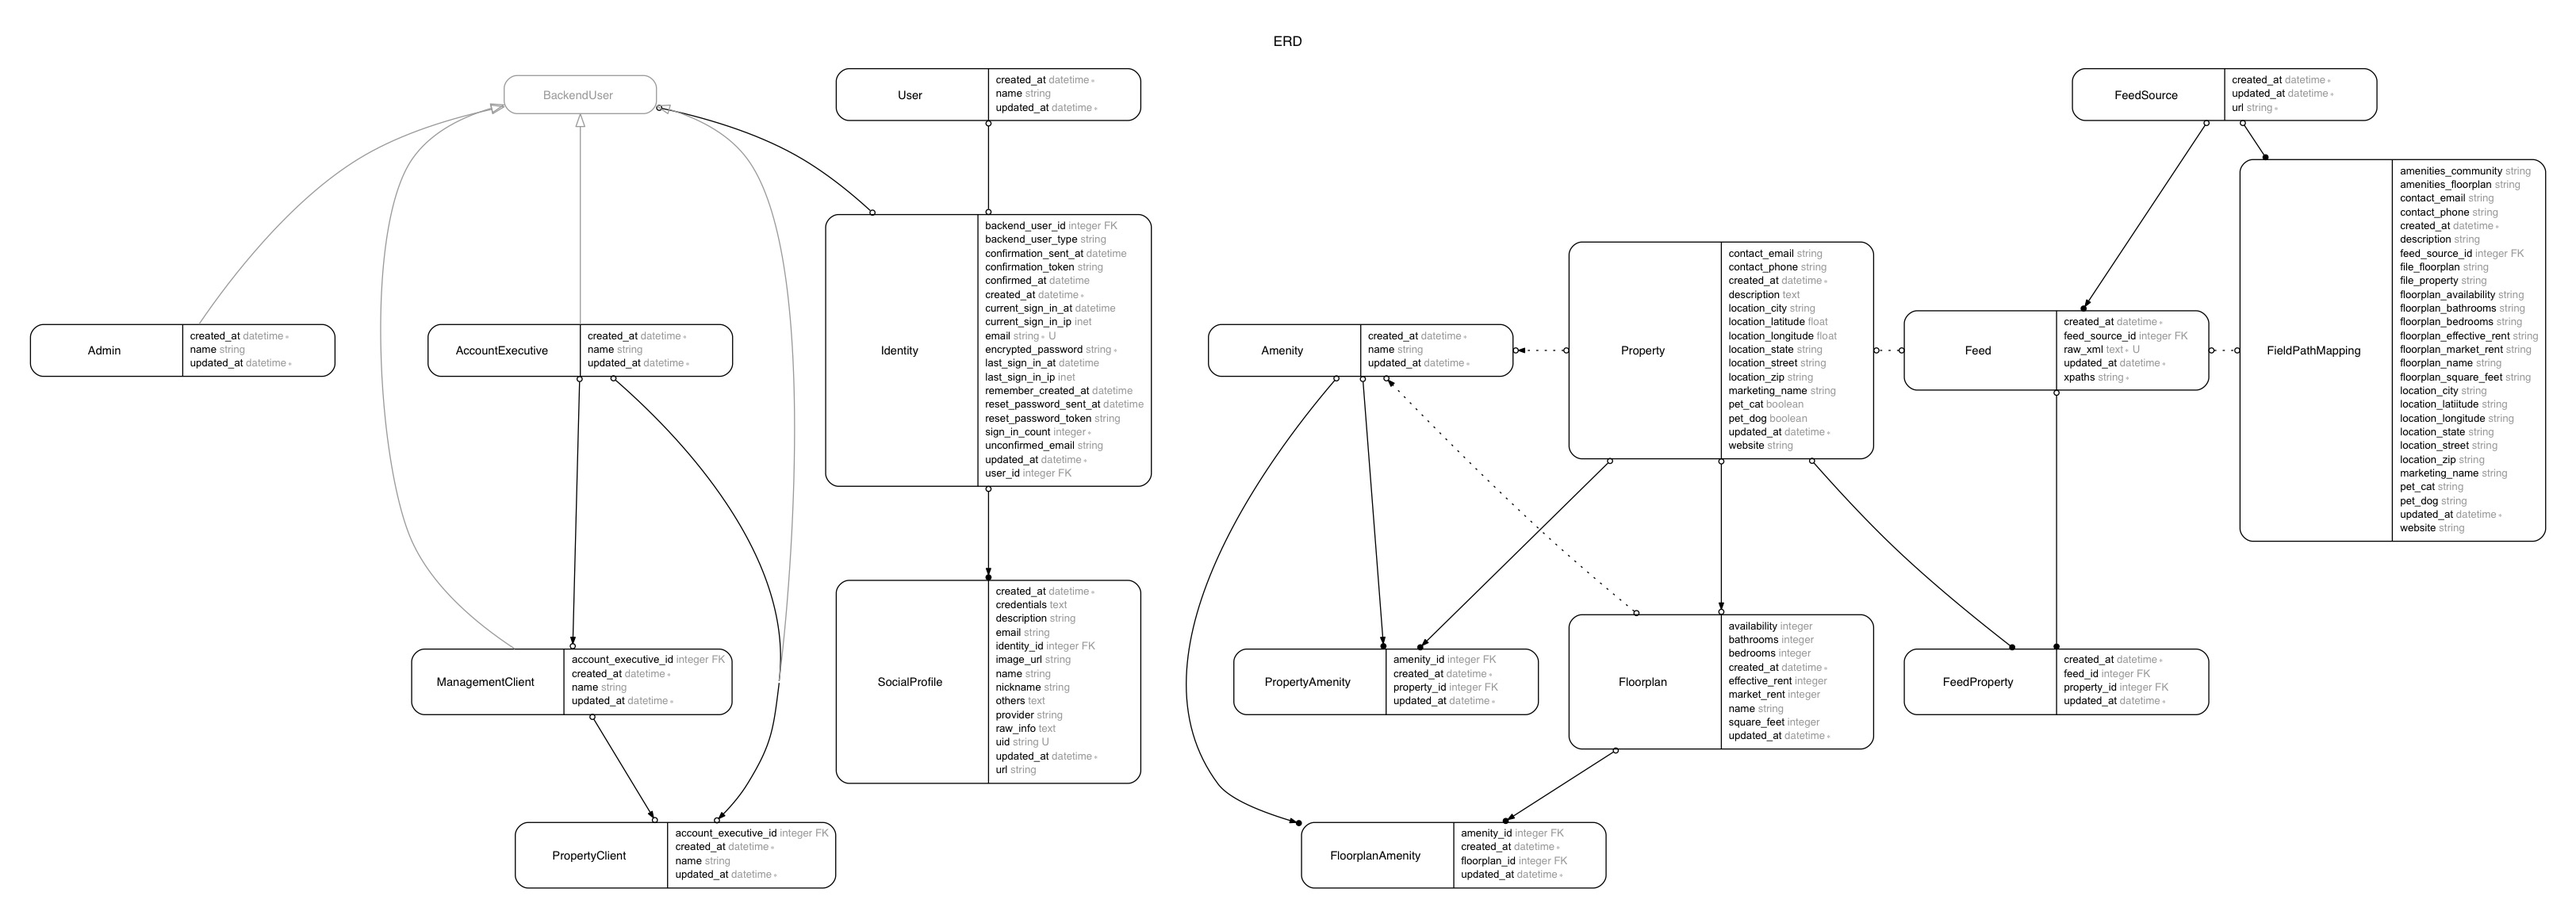
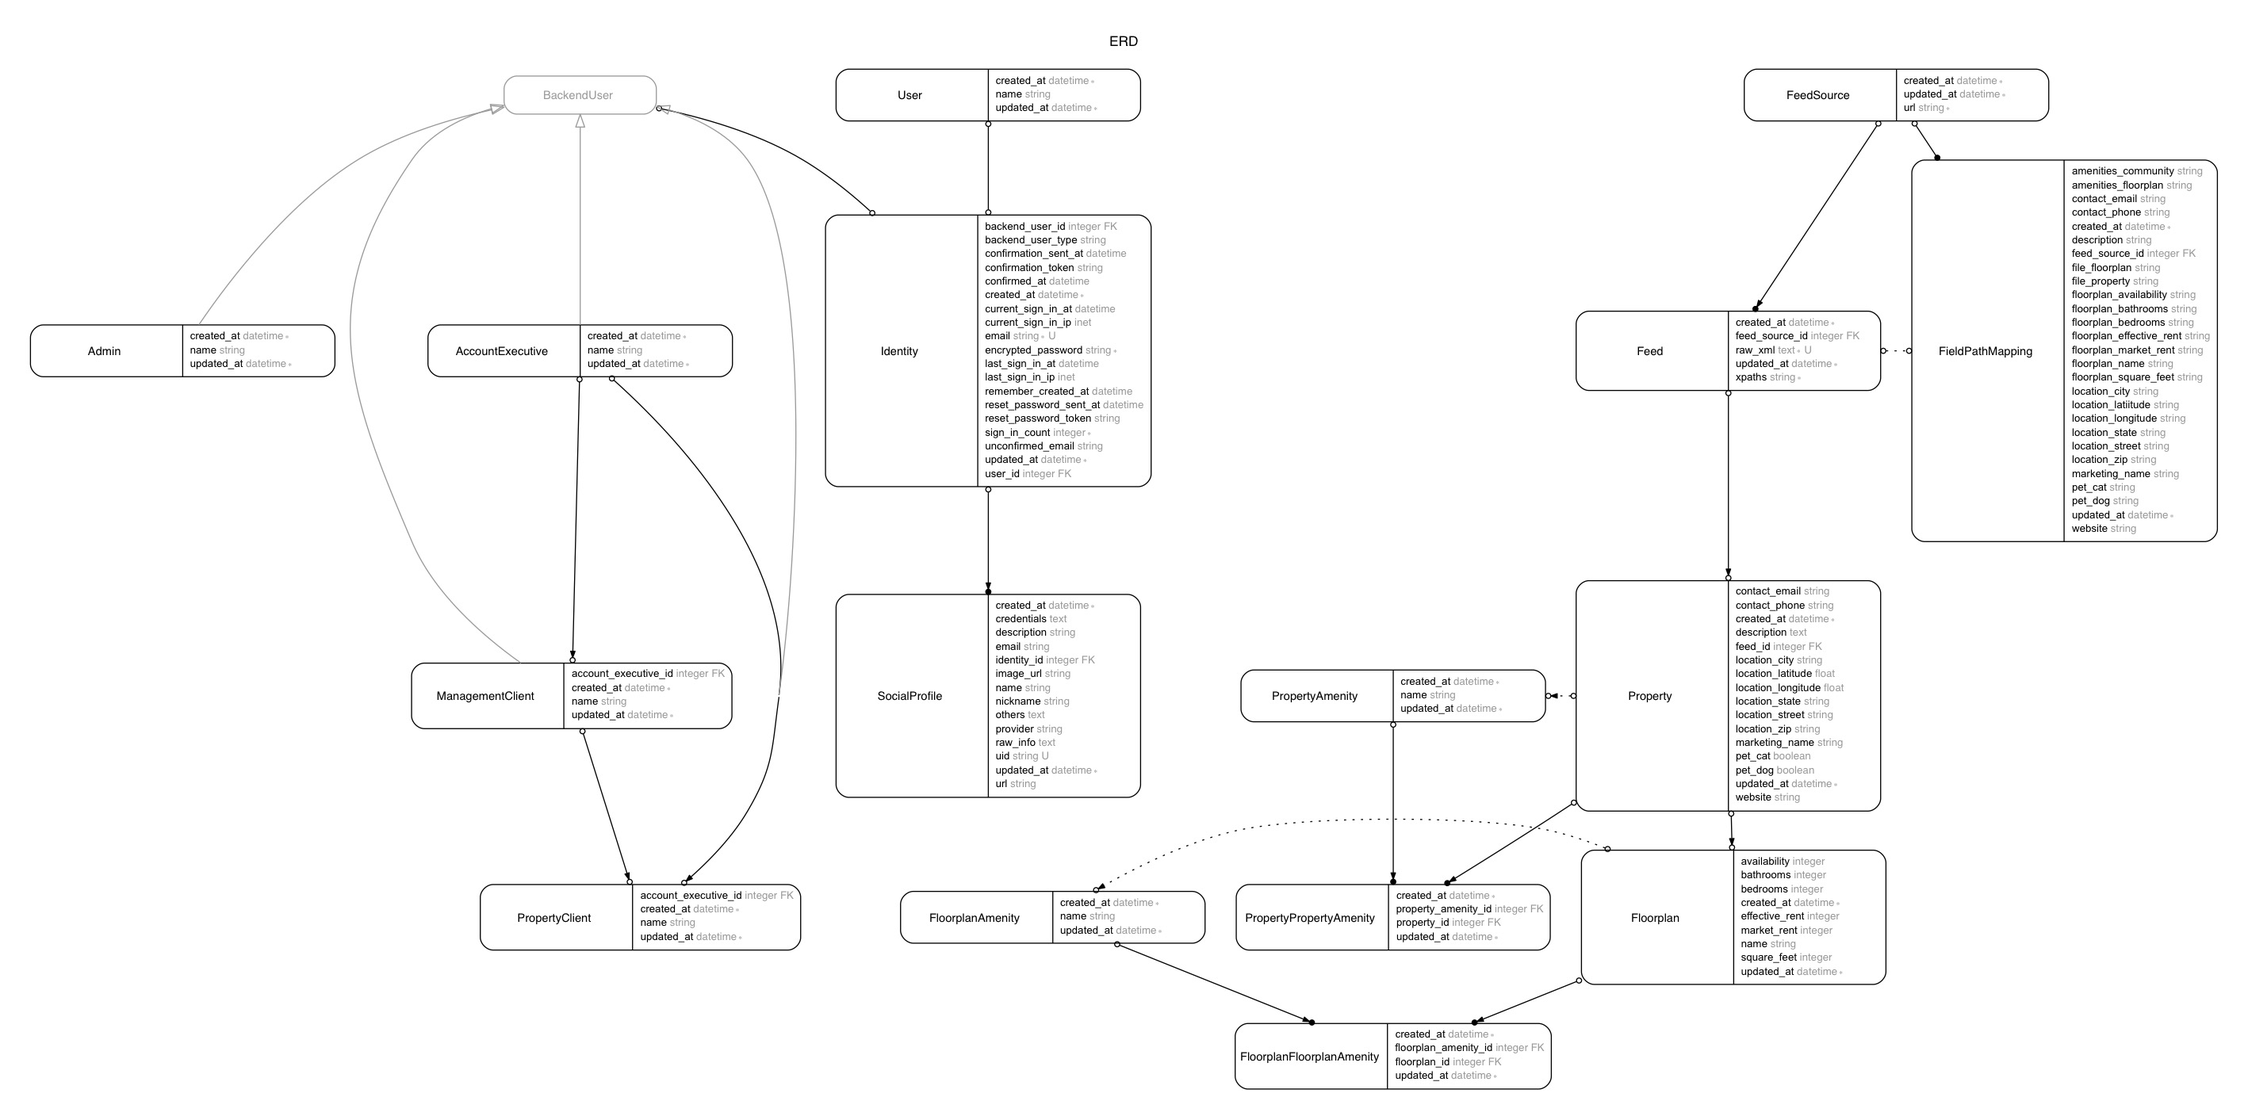
Create property_amenity and floorplan_amenity models

diff --git a/db/schema.rb b/db/schema.rb
@@ -10,7 +10,7 @@
 #
 # It's strongly recommended that you check this file into your version control system.
 
-ActiveRecord::Schema.define(version: 20161125185020) do
+ActiveRecord::Schema.define(version: 20161125180006) do
 
   # These are extensions that must be enabled in order to support this database
   enable_extension "plpgsql"
@@ -25,21 +25,6 @@ ActiveRecord::Schema.define(version: 20161125185020) do
     t.string   "name"
     t.datetime "created_at", null: false
     t.datetime "updated_at", null: false
-  end
-
-  create_table "amenities", force: :cascade do |t|
-    t.string   "name"
-    t.datetime "created_at", null: false
-    t.datetime "updated_at", null: false
-  end
-
-  create_table "feed_properties", force: :cascade do |t|
-    t.integer  "feed_id"
-    t.integer  "property_id"
-    t.datetime "created_at",  null: false
-    t.datetime "updated_at",  null: false
-    t.index ["feed_id"], name: "index_feed_properties_on_feed_id", using: :btree
-    t.index ["property_id"], name: "index_feed_properties_on_property_id", using: :btree
   end
 
   create_table "feed_sources", force: :cascade do |t|
@@ -89,12 +74,18 @@ ActiveRecord::Schema.define(version: 20161125185020) do
   end
 
   create_table "floorplan_amenities", force: :cascade do |t|
-    t.integer  "amenity_id"
+    t.string   "name"
+    t.datetime "created_at", null: false
+    t.datetime "updated_at", null: false
+  end
+
+  create_table "floorplan_floorplan_amenities", force: :cascade do |t|
     t.integer  "floorplan_id"
-    t.datetime "created_at",   null: false
-    t.datetime "updated_at",   null: false
-    t.index ["amenity_id"], name: "index_floorplan_amenities_on_amenity_id", using: :btree
-    t.index ["floorplan_id"], name: "index_floorplan_amenities_on_floorplan_id", using: :btree
+    t.integer  "floorplan_amenity_id"
+    t.datetime "created_at",           null: false
+    t.datetime "updated_at",           null: false
+    t.index ["floorplan_amenity_id"], name: "index_floorplan_floorplan_amenities_on_floorplan_amenity_id", using: :btree
+    t.index ["floorplan_id"], name: "index_floorplan_floorplan_amenities_on_floorplan_id", using: :btree
   end
 
   create_table "floorplans", force: :cascade do |t|
@@ -158,17 +149,16 @@ ActiveRecord::Schema.define(version: 20161125185020) do
     t.float    "location_longitude"
     t.boolean  "pet_dog"
     t.boolean  "pet_cat"
+    t.integer  "feed_id"
     t.datetime "created_at",         null: false
     t.datetime "updated_at",         null: false
+    t.index ["feed_id"], name: "index_properties_on_feed_id", using: :btree
   end
 
   create_table "property_amenities", force: :cascade do |t|
-    t.integer  "amenity_id"
-    t.integer  "property_id"
-    t.datetime "created_at",  null: false
-    t.datetime "updated_at",  null: false
-    t.index ["amenity_id"], name: "index_property_amenities_on_amenity_id", using: :btree
-    t.index ["property_id"], name: "index_property_amenities_on_property_id", using: :btree
+    t.string   "name"
+    t.datetime "created_at", null: false
+    t.datetime "updated_at", null: false
   end
 
   create_table "property_clients", force: :cascade do |t|
@@ -177,6 +167,15 @@ ActiveRecord::Schema.define(version: 20161125185020) do
     t.datetime "created_at",           null: false
     t.datetime "updated_at",           null: false
     t.index ["account_executive_id"], name: "index_property_clients_on_account_executive_id", using: :btree
+  end
+
+  create_table "property_property_amenities", force: :cascade do |t|
+    t.integer  "property_id"
+    t.integer  "property_amenity_id"
+    t.datetime "created_at",          null: false
+    t.datetime "updated_at",          null: false
+    t.index ["property_amenity_id"], name: "index_property_property_amenities_on_property_amenity_id", using: :btree
+    t.index ["property_id"], name: "index_property_property_amenities_on_property_id", using: :btree
   end
 
   create_table "social_profiles", force: :cascade do |t|
@@ -204,12 +203,10 @@ ActiveRecord::Schema.define(version: 20161125185020) do
     t.datetime "updated_at", null: false
   end
 
-  add_foreign_key "feed_properties", "feeds"
-  add_foreign_key "feed_properties", "properties"
   add_foreign_key "feeds", "feed_sources"
   add_foreign_key "field_path_mappings", "feed_sources"
-  add_foreign_key "floorplan_amenities", "amenities"
-  add_foreign_key "floorplan_amenities", "floorplans"
-  add_foreign_key "property_amenities", "amenities"
-  add_foreign_key "property_amenities", "properties"
+  add_foreign_key "floorplan_floorplan_amenities", "floorplan_amenities"
+  add_foreign_key "floorplan_floorplan_amenities", "floorplans"
+  add_foreign_key "property_property_amenities", "properties"
+  add_foreign_key "property_property_amenities", "property_amenities"
 end

diff --git a/app/models/property.rb b/app/models/property.rb
@@ -16,6 +16,7 @@
 #  location_longitude :float
 #  pet_dog            :boolean
 #  pet_cat            :boolean
+#  feed_id            :integer
 #  created_at         :datetime         not null
 #  updated_at         :datetime         not null
 #
@@ -27,6 +28,6 @@ class Property < ApplicationRecord
 
   has_many :floorplans
 
-  has_many :property_amenities, dependent: :destroy
-  has_many :amenities, through: :property_amenities
+  has_many :property_property_amenities, dependent: :destroy
+  has_many :property_amenities, through: :property_property_amenities
 end

diff --git a/app/models/floorplan_amenity.rb b/app/models/floorplan_amenity.rb
@@ -2,14 +2,12 @@
 #
 # Table name: floorplan_amenities
 #
-#  id           :integer          not null, primary key
-#  amenity_id   :integer
-#  floorplan_id :integer
-#  created_at   :datetime         not null
-#  updated_at   :datetime         not null
+#  id         :integer          not null, primary key
+#  name       :string
+#  created_at :datetime         not null
+#  updated_at :datetime         not null
 #
 
 class FloorplanAmenity < ApplicationRecord
-  belongs_to :amenity
-  belongs_to :floorplan
+  has_many :floorplan_floorplan_amenities
 end

diff --git a/app/models/property_amenity.rb b/app/models/property_amenity.rb
@@ -2,14 +2,12 @@
 #
 # Table name: property_amenities
 #
-#  id          :integer          not null, primary key
-#  amenity_id  :integer
-#  property_id :integer
-#  created_at  :datetime         not null
-#  updated_at  :datetime         not null
+#  id         :integer          not null, primary key
+#  name       :string
+#  created_at :datetime         not null
+#  updated_at :datetime         not null
 #
 
 class PropertyAmenity < ApplicationRecord
-  belongs_to :amenity
-  belongs_to :property
+  has_many :property_property_amenities
 end

diff --git a/app/models/floorplan_floorplan_amenity.rb b/app/models/floorplan_floorplan_amenity.rb
@@ -1,0 +1,17 @@
+# == Schema Information
+#
+# Table name: floorplan_floorplan_amenities
+#
+#  id                   :integer          not null, primary key
+#  floorplan_id         :integer
+#  floorplan_amenity_id :integer
+#  created_at           :datetime         not null
+#  updated_at           :datetime         not null
+#
+
+class FloorplanFloorplanAmenity < ApplicationRecord
+  belongs_to :floorplan
+  belongs_to :floorplan_amenity
+
+  validates :name, presence: true, uniqueness: true
+end

diff --git a/app/models/property_property_amenity.rb b/app/models/property_property_amenity.rb
@@ -1,0 +1,17 @@
+# == Schema Information
+#
+# Table name: property_property_amenities
+#
+#  id                  :integer          not null, primary key
+#  property_id         :integer
+#  property_amenity_id :integer
+#  created_at          :datetime         not null
+#  updated_at          :datetime         not null
+#
+
+class PropertyPropertyAmenity < ApplicationRecord
+  belongs_to :property
+  belongs_to :property_amenity
+
+  validates :name, presence: true, uniqueness: true
+end

diff --git a/test/factories/floorplan_amenities.rb b/test/factories/floorplan_amenities.rb
@@ -2,11 +2,10 @@
 #
 # Table name: floorplan_amenities
 #
-#  id           :integer          not null, primary key
-#  amenity_id   :integer
-#  floorplan_id :integer
-#  created_at   :datetime         not null
-#  updated_at   :datetime         not null
+#  id         :integer          not null, primary key
+#  name       :string
+#  created_at :datetime         not null
+#  updated_at :datetime         not null
 #
 
 FactoryGirl.define do

diff --git a/test/models/floorplan_amenity_test.rb b/test/models/floorplan_amenity_test.rb
@@ -2,11 +2,10 @@
 #
 # Table name: floorplan_amenities
 #
-#  id           :integer          not null, primary key
-#  amenity_id   :integer
-#  floorplan_id :integer
-#  created_at   :datetime         not null
-#  updated_at   :datetime         not null
+#  id         :integer          not null, primary key
+#  name       :string
+#  created_at :datetime         not null
+#  updated_at :datetime         not null
 #
 
 require "test_helper"

diff --git a/test/factories/property_amenities.rb b/test/factories/property_amenities.rb
@@ -2,11 +2,10 @@
 #
 # Table name: property_amenities
 #
-#  id          :integer          not null, primary key
-#  amenity_id  :integer
-#  property_id :integer
-#  created_at  :datetime         not null
-#  updated_at  :datetime         not null
+#  id         :integer          not null, primary key
+#  name       :string
+#  created_at :datetime         not null
+#  updated_at :datetime         not null
 #
 
 FactoryGirl.define do

diff --git a/test/models/property_amenity_test.rb b/test/models/property_amenity_test.rb
@@ -2,11 +2,10 @@
 #
 # Table name: property_amenities
 #
-#  id          :integer          not null, primary key
-#  amenity_id  :integer
-#  property_id :integer
-#  created_at  :datetime         not null
-#  updated_at  :datetime         not null
+#  id         :integer          not null, primary key
+#  name       :string
+#  created_at :datetime         not null
+#  updated_at :datetime         not null
 #
 
 require "test_helper"

diff --git a/app/models/floorplan.rb b/app/models/floorplan.rb
@@ -15,6 +15,8 @@
 #
 
 class Floorplan < ApplicationRecord
-  has_many :floorplan_amenities, dependent: :destroy
-  has_many :amenities, through: :floorplan_amenities
+  has_many :floorplan_floorplan_amenities, dependent: :destroy
+  has_many :floorplan_amenities, through: :floorplan_floorplan_amenities
+
+  # TODO: enum: bedrooms, bathrooms, availability
 end

diff --git a/db/migrate/20161125180006_create_floorplan_floorplan_amenities.rb b/db/migrate/20161125180006_create_floorplan_floorplan_amenities.rb
@@ -1,0 +1,10 @@
+class CreateFloorplanFloorplanAmenities < ActiveRecord::Migration[5.0]
+  def change
+    create_table :floorplan_floorplan_amenities do |t|
+      t.references :floorplan, foreign_key: true
+      t.references :floorplan_amenity, foreign_key: true
+
+      t.timestamps
+    end
+  end
+end
